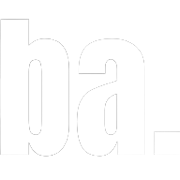
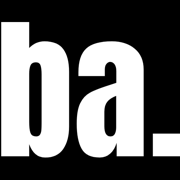
Favicon2

diff --git a/app/image-licensing/page.tsx b/app/image-licensing/page.tsx
@@ -1,0 +1,99 @@
+import Image from "next/image";
+import Link from "next/link";
+import { ArrowLeft, Mail } from "lucide-react";
+import { createPageMetadata } from "@/app/seo";
+import { CONTACT } from "@/features/portfolio/data";
+import portrait from "@/public/bilal-asif-portrait-2026-v5.webp";
+
+export const metadata = createPageMetadata({
+  title: "Image Licensing",
+  description:
+    "Copyright, credit and permission information for images published on Bilal Asif's portfolio.",
+  path: "/image-licensing"
+});
+
+export default function ImageLicensingPage() {
+  return (
+    <main className="min-h-screen bg-[#f4f3ef] px-5 py-10 text-ink sm:px-8 sm:py-14 lg:px-12">
+      <div className="mx-auto max-w-4xl">
+        <Link
+          href="/"
+          className="inline-flex items-center gap-2 text-xs font-semibold uppercase tracking-[0.18em] text-black/60 transition-colors hover:text-black"
+        >
+          <ArrowLeft className="h-4 w-4" />
+          Back to portfolio
+        </Link>
+
+        <header className="mt-16 border-b border-black/15 pb-10 sm:mt-24 sm:pb-14">
+          <p className="font-jetbrains text-[10px] font-semibold uppercase tracking-[0.3em] text-black/50 sm:text-xs">
+            Usage and permissions
+          </p>
+          <h1 className="mt-5 font-sans text-5xl font-extrabold tracking-tight sm:text-7xl">
+            Image licensing
+          </h1>
+          <p className="mt-6 max-w-2xl text-base leading-7 text-black/65 sm:text-lg sm:leading-8">
+            Copyright, attribution and permission details for original images
+            published on bilalasiftech.com.
+          </p>
+        </header>
+
+        <div className="grid gap-12 py-12 sm:py-16 md:grid-cols-[220px_1fr] md:gap-16">
+          <figure>
+            <Image
+              src={portrait}
+              alt="Bilal Asif, freelance full-stack developer and SEO specialist"
+              className="aspect-[4/5] w-full rounded-2xl object-cover object-top grayscale"
+              priority
+            />
+            <figcaption className="mt-3 text-xs leading-5 text-black/50">
+              Portrait of Bilal Asif
+            </figcaption>
+          </figure>
+
+          <div className="space-y-12">
+            <section id="license" className="scroll-mt-8">
+              <h2 className="text-2xl font-bold">Copyright and license</h2>
+              <div className="mt-4 space-y-4 text-sm leading-7 text-black/65 sm:text-base">
+                <p>
+                  Copyright © 2026 Bilal Asif. All rights reserved. The portrait
+                  shown on this page and its corresponding image file are not
+                  licensed for reuse, republication, modification or commercial
+                  use without prior written permission.
+                </p>
+                <p>
+                  Viewing or indexing the image does not grant a license or
+                  transfer any ownership rights.
+                </p>
+              </div>
+            </section>
+
+            <section id="credit" className="scroll-mt-8">
+              <h2 className="text-2xl font-bold">Required credit</h2>
+              <p className="mt-4 text-sm leading-7 text-black/65 sm:text-base">
+                If permission is granted, use the credit “Bilal Asif” and link
+                to https://www.bilalasiftech.com unless the written permission
+                specifies different terms.
+              </p>
+            </section>
+
+            <section id="request-permission" className="scroll-mt-8">
+              <h2 className="text-2xl font-bold">Request permission</h2>
+              <p className="mt-4 text-sm leading-7 text-black/65 sm:text-base">
+                To request a license, describe where the image will appear, how
+                it will be used and the expected publication period. Permission
+                is valid only when confirmed in writing.
+              </p>
+              <a
+                href={`mailto:${CONTACT.email}?subject=Image%20licensing%20request`}
+                className="mt-6 inline-flex min-h-12 items-center gap-3 rounded-full bg-black px-6 text-xs font-bold uppercase tracking-[0.16em] text-white transition-transform hover:scale-[1.015]"
+              >
+                <Mail className="h-4 w-4" />
+                Request permission
+              </a>
+            </section>
+          </div>
+        </div>
+      </div>
+    </main>
+  );
+}

diff --git a/features/portfolio/contact-view.tsx b/features/portfolio/contact-view.tsx
@@ -135,7 +135,17 @@ export function ContactView() {
       <footer className="border-t border-white/10 px-5 py-5 text-[10px] uppercase tracking-[0.18em] text-white/60 sm:px-8 lg:px-12">
         <div className="mx-auto flex max-w-7xl items-center justify-between gap-4">
           <p>© 2026 Bilal Asif</p>
-          <p className="text-right">Full-Stack Developer and SEO Specialist</p>
+          <div className="flex items-center gap-4 text-right">
+            <a
+              href="/image-licensing"
+              className="underline decoration-white/30 underline-offset-4 transition-colors hover:text-white"
+            >
+              Image licensing
+            </a>
+            <p className="hidden sm:block">
+              Full-Stack Developer and SEO Specialist
+            </p>
+          </div>
         </div>
       </footer>
     </div>

diff --git a/features/portfolio/data.ts b/features/portfolio/data.ts
@@ -370,6 +370,7 @@ export const FAQS: readonly Faq[] = [
 const SITE_URL = "https://www.bilalasiftech.com";
 const PERSON_ID = `${SITE_URL}/#bilal-asif`;
 const PORTRAIT_URL = `${SITE_URL}/bilal-asif-portrait-2026-v5.webp`;
+const IMAGE_LICENSE_URL = `${SITE_URL}/image-licensing`;
 
 export const PROFESSIONAL_SERVICE_SCHEMA = {
   "@context": "https://schema.org",
@@ -402,6 +403,9 @@ export const PROFESSIONAL_SERVICE_SCHEMA = {
       caption:
         "Bilal Asif, freelance full-stack developer and SEO specialist",
       creditText: "Bilal Asif",
+      copyrightNotice: "© 2026 Bilal Asif",
+      license: `${IMAGE_LICENSE_URL}#license`,
+      acquireLicensePage: `${IMAGE_LICENSE_URL}#request-permission`,
       creator: { "@id": PERSON_ID }
     },
     {

diff --git a/app/layout.tsx b/app/layout.tsx
@@ -62,7 +62,10 @@ export const metadata: Metadata = {
   alternates: { canonical: "/" },
   manifest: "/manifest.webmanifest",
   icons: {
-    icon: [{ url: "/favicon.ico", sizes: "64x64", type: "image/x-icon" }],
+    icon: [
+      { url: "/favicon.ico", type: "image/x-icon" },
+      { url: "/favicon-48.png", sizes: "48x48", type: "image/png" }
+    ],
     apple: [
       { url: "/apple-icon.png", sizes: "180x180", type: "image/png" }
     ]

diff --git a/app/sitemap.ts b/app/sitemap.ts
@@ -10,7 +10,8 @@ export default function sitemap(): MetadataRoute.Sitemap {
     { path: "/packages", priority: 0.8 },
     { path: "/process", priority: 0.8 },
     { path: "/faq", priority: 0.7 },
-    { path: "/contact", priority: 0.9 }
+    { path: "/contact", priority: 0.9 },
+    { path: "/image-licensing", priority: 0.3 }
   ];
 
   return [

diff --git a/app/manifest.ts b/app/manifest.ts
@@ -12,6 +12,11 @@ export default function manifest(): MetadataRoute.Manifest {
     theme_color: "#f4f3ef",
     icons: [
       {
+        src: "/icon-192.png",
+        sizes: "192x192",
+        type: "image/png"
+      },
+      {
         src: "/icon.png",
         sizes: "512x512",
         type: "image/png"
